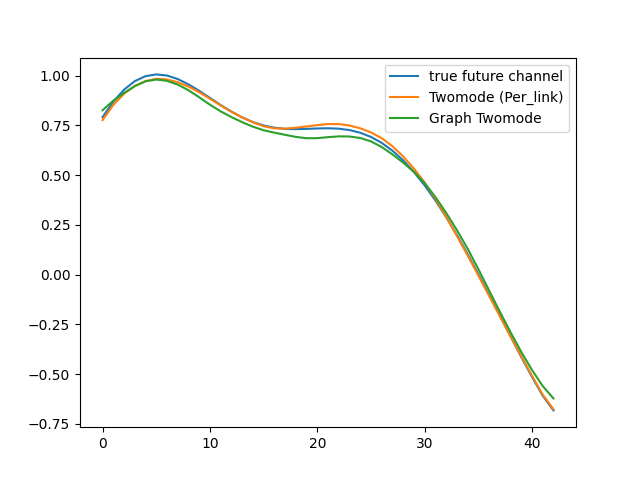
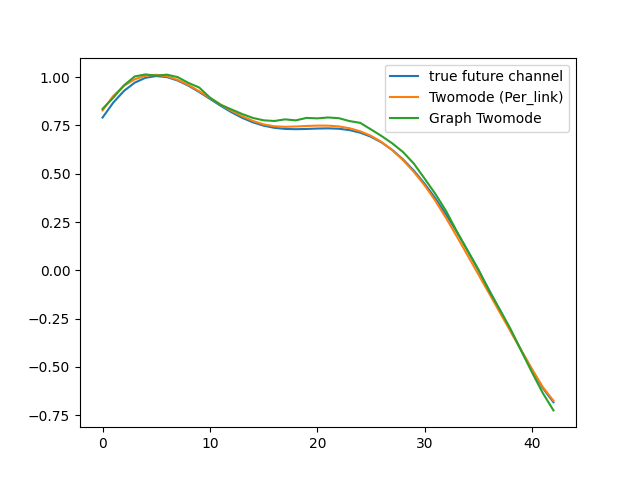
testing different adjacency initialization strategies

diff --git a/dmimo/channel/twomode_graph_wesn_pred_v2.py b/dmimo/channel/twomode_graph_wesn_pred_v2.py
@@ -7,7 +7,7 @@ from dmimo.channel import lmmse_channel_estimation
 
 class twomode_graph_wesn_pred_v2:
 
-    def __init__(self, rc_config, num_freq_re, num_rx_ant, num_tx_ant, type=np.complex64):
+    def __init__(self, rc_config, num_freq_re, num_rx_ant, num_tx_ant, adjacency_method=None, type=np.complex64):
         
         self.rc_config = rc_config
         self.ns3_config = Ns3Config()
@@ -25,6 +25,8 @@ class twomode_graph_wesn_pred_v2:
         self.reg = rc_config.regularization
         self.enable_window = rc_config.enable_window
         self.history_len = rc_config.history_len
+
+        self.adjacency_method = adjacency_method
 
         seed = 10
         self.RS = np.random.RandomState(seed)
@@ -48,6 +50,7 @@ class twomode_graph_wesn_pred_v2:
 
     def init_weights(self):
 
+        # TODO: try matching different vertex W_N's and W_ins to the different vertex input dimensions (Nr, Nt)
         matrices_left = []
         matrices_right = []
         for _ in range(self.N_v):
@@ -59,9 +62,6 @@ class twomode_graph_wesn_pred_v2:
         self.W_N_left = np.concatenate(matrices_left, axis=1)
         self.W_N_right = np.concatenate(matrices_right, axis=0)
         
-        self.W_res_left = self.sparse_mat(self.d_left)
-        self.W_res_right = self.sparse_mat(self.d_right)
-
         self.W_in_left = 2 * (self.RS.rand(self.d_left, self.N_in_left) - 0.5) # TODO: check if I should make this complex later
         self.W_in_right = 2 * (self.RS.rand(self.N_in_right, self.d_right) - 0.5) # TODO: check if I should make this complex later
 
@@ -111,7 +111,7 @@ class twomode_graph_wesn_pred_v2:
                 num_node_pairs = len(channel_train_gt_list)
 
                 # Optional: do NOT reset S_0 here if you want cross-RB continuity
-                self.S_0 = np.zeros([self.N_v, self.d_left, self.d_right], dtype=self.dtype)
+                # self.S_0 = np.zeros([self.N_v, self.d_left, self.d_right], dtype=self.dtype)
 
                 S_f_list, Y_f_list = self.build_S_Y(channel_train_input_list, channel_train_gt_list, meta_input, curr_window_weights=None)
                 S_list.append(S_f_list); Y_list.append(Y_f_list)
@@ -153,8 +153,10 @@ class twomode_graph_wesn_pred_v2:
                     channel_train_gt[..., freq_re, ofdm_sym]
                 )  # list length N_v; each (T, n_rx_v, n_tx_v)
 
+                self.adjacency = self.compute_eigenmode_adjacency_cov(channel_test_input_list)
+
                 # Optional: continuity across RBs (comment these two lines to carry state)
-                self.S_0 = np.zeros([self.N_v, self.d_left, self.d_right], dtype=self.dtype)
+                # self.S_0 = np.zeros([self.N_v, self.d_left, self.d_right], dtype=self.dtype)
 
                 # 2) Window & scale (same as training)
                 if self.enable_window:
@@ -267,7 +269,10 @@ class twomode_graph_wesn_pred_v2:
         Y_target_3D_list = channel_output
 
         # Compute adjacency matrices once per RE and per ofdm sym.
-        self.adjacency = self.compute_eigenmode_adjacency_cov(Y_3D_list)
+        if self.adjacency_method is None:
+            self.adjacency = self.compute_None_adjacency()
+        elif self.adjacency_method == 'eigenmode_cov':
+            self.adjacency = self.compute_eigenmode_adjacency_cov(Y_3D_list)
 
         if self.enable_window:
             Y_3D_win_list = self.form_window_input_signal_list(Y_3D_list, curr_window_weights)
@@ -491,7 +496,15 @@ class twomode_graph_wesn_pred_v2:
     # ------------------------------------------------------------------------------------
     # Adjacency calculation
     # ------------------------------------------------------------------------------------
-    def compute_eigenmode_adjacency_cov(
+    def compute_None_adjacency(self):
+
+        adj_None = np.zeros((self.N_v, self.N_v), dtype=float)
+        np.fill_diagonal(adj_None, 1.0)
+
+        return adj_None
+
+
+    def compute_eigenmode_adjacency_cov_v0(
         self,
         channel_input,      # list of arrays, each (B, R_sel, T_sel)
         subspace_rank_tx=2, # q_t
@@ -585,10 +598,169 @@ class twomode_graph_wesn_pred_v2:
         np.fill_diagonal(adj_rx, 1.0)
         adj_tx = 0.5 * (adj_tx + adj_tx.T)
         adj_rx = 0.5 * (adj_rx + adj_rx.T)
-
+        
         adj = (adj_rx + adj_tx) / 2
+
         return adj
 
+    def compute_eigenmode_adjacency_cov(
+        self,
+        channel_input,      # list of arrays, each (B, R_sel, T_sel)
+        subspace_rank_tx=2, # q_t
+        subspace_rank_rx=2, # q_r
+        shrinkage=0.0,
+        transpose_if_needed=False
+    ):
+        """
+        Covariance-based *joint* Tx/Rx subspace adjacency (Kronecker-space chordal affinity).
+
+        For each vertex v, estimate dominant Tx and Rx subspaces U_t[v] and U_r[v] from
+        time-averaged covariances R_tx, R_rx. The adjacency between vertices a,b is
+
+            A[a,b] = ( || U_r[a]^H U_r[b] ||_F^2 / q_r ) * ( || U_t[a]^H U_t[b] ||_F^2 / q_t )
+
+        which equals the normalized chordal affinity of the *joint* subspaces span(U_r ⊗ U_t)
+        without explicitly forming Kronecker products. Values are in [0,1], diagonal = 1,
+        and the result is symmetrized.
+
+        Args:
+            channel_input: list of length N_v; each item is array (B, R_sel, T_sel) of complex64
+                        mini-batches for that vertex/link.
+            subspace_rank_tx: q_t, target Tx subspace rank (capped by T_sel).
+            subspace_rank_rx: q_r, target Rx subspace rank (capped by R_sel).
+            shrinkage: scalar in [0,1]; if >0, apply diagonal shrinkage to covariances.
+            transpose_if_needed: if True and R_sel < T_sel, transpose per-batch matrices so
+                                that the "Rx" dimension is the larger one (keeps conventions).
+
+        Returns:
+            adj: (N_v, N_v) float64 numpy array with values in [0,1].
+        """
+        import numpy as np
+
+        N_v = len(channel_input)
+        Tx_bases, Rx_bases = [], []
+
+        def pad_rows(Q, N_target):
+            """Zero-pad rows of Q (n x q) to (N_target x q)."""
+            n, q = Q.shape
+            if n == N_target:
+                return Q
+            Qp = np.zeros((N_target, q), dtype=Q.dtype)
+            Qp[:n, :] = Q
+            return Qp
+
+        # --- Per-vertex subspace estimation ---
+        for v in range(N_v):
+            Yv = channel_input[v]
+            if Yv.ndim != 3:
+                raise ValueError("Each list element must be 3D (B, R_sel, T_sel)")
+            if transpose_if_needed and Yv.shape[1] < Yv.shape[2]:
+                Yv = np.transpose(Yv, (0, 2, 1))  # now (B, T_sel, R_sel); next lines adapt via shapes
+
+            B, dim1, dim2 = Yv.shape
+
+            # Interpret as (B, R_sel, T_sel) regardless of optional transpose
+            # If we transposed above, then dim1 is T_sel and dim2 is R_sel; swap back logically.
+            if transpose_if_needed and Yv.shape[1] > Yv.shape[2]:
+                R_sel, T_sel = dim2, dim1
+                # Build covariances by viewing Hb as (R_sel x T_sel) again:
+                R_tx = np.zeros((T_sel, T_sel), dtype=np.complex64)
+                R_rx = np.zeros((R_sel, R_sel), dtype=np.complex64)
+                for b in range(B):
+                    Hb = Yv[b].T  # (R_sel, T_sel)
+                    R_tx += Hb.conj().T @ Hb
+                    R_rx += Hb @ Hb.conj().T
+            else:
+                R_sel, T_sel = dim1, dim2
+                R_tx = np.zeros((T_sel, T_sel), dtype=np.complex64)
+                R_rx = np.zeros((R_sel, R_sel), dtype=np.complex64)
+                for b in range(B):
+                    Hb = Yv[b]  # (R_sel, T_sel)
+                    R_tx += Hb.conj().T @ Hb
+                    R_rx += Hb @ Hb.conj().T
+
+            R_tx /= max(B, 1)
+            R_rx /= max(B, 1)
+
+            if shrinkage > 0.0:
+                tr_tx = float(np.real(np.trace(R_tx))) / max(T_sel, 1)
+                tr_rx = float(np.real(np.trace(R_rx))) / max(R_sel, 1)
+                R_tx = (1.0 - shrinkage) * R_tx + shrinkage * tr_tx * np.eye(T_sel, dtype=R_tx.dtype)
+                R_rx = (1.0 - shrinkage) * R_rx + shrinkage * tr_rx * np.eye(R_sel, dtype=R_rx.dtype)
+
+            # Eigen-decomp (Hermitian), take top-q
+            eval_tx, evec_tx = np.linalg.eigh(R_tx)
+            eval_rx, evec_rx = np.linalg.eigh(R_rx)
+            idx_tx = np.argsort(eval_tx)[::-1]
+            idx_rx = np.argsort(eval_rx)[::-1]
+            q_t = max(0, min(subspace_rank_tx, T_sel))
+            q_r = max(0, min(subspace_rank_rx, R_sel))
+            Ut = evec_tx[:, idx_tx[:q_t]] if q_t > 0 else np.zeros((T_sel, 0), dtype=R_tx.dtype)
+            Ur = evec_rx[:, idx_rx[:q_r]] if q_r > 0 else np.zeros((R_sel, 0), dtype=R_rx.dtype)
+
+            # QR for numerical stability (keeps orthonormal columns)
+            if q_t > 0:
+                Ut, _ = np.linalg.qr(Ut)
+            if q_r > 0:
+                Ur, _ = np.linalg.qr(Ur)
+
+            Tx_bases.append(Ut)  # (T_sel x q_t)
+            Rx_bases.append(Ur)  # (R_sel x q_r)
+
+        # --- Joint subspace chordal affinity via product of Tx/Rx overlaps ---
+        def joint_affinity(Ur_a, Ut_a, Ur_b, Ut_b):
+            """
+            A_ab = (||Ur_a^H Ur_b||_F^2 / q_r) * (||Ut_a^H Ut_b||_F^2 / q_t),
+            with row-padding if needed.
+            """
+            # Handle empty subspaces
+            q_r_a = Ur_a.shape[1]
+            q_r_b = Ur_b.shape[1]
+            q_t_a = Ut_a.shape[1]
+            q_t_b = Ut_b.shape[1]
+            q_r = min(q_r_a, q_r_b)
+            q_t = min(q_t_a, q_t_b)
+            if q_r == 0 or q_t == 0:
+                return 0.0
+
+            # Pad rows if antenna counts differ
+            n_r = max(Ur_a.shape[0], Ur_b.shape[0])
+            n_t = max(Ut_a.shape[0], Ut_b.shape[0])
+            if Ur_a.shape[0] != n_r: Ur_a = pad_rows(Ur_a, n_r)
+            if Ur_b.shape[0] != n_r: Ur_b = pad_rows(Ur_b, n_r)
+            if Ut_a.shape[0] != n_t: Ut_a = pad_rows(Ut_a, n_t)
+            if Ut_b.shape[0] != n_t: Ut_b = pad_rows(Ut_b, n_t)
+
+            # Compute Frobenius norms of overlap matrices
+            Sr = Ur_a.conj().T @ Ur_b          # (q_r_a x q_r_b)
+            St = Ut_a.conj().T @ Ut_b          # (q_t_a x q_t_b)
+
+            # Use only the leading min-dim blocks to normalize by q_r, q_t fairly
+            Sr_eff = Sr[:q_r, :q_r]
+            St_eff = St[:q_t, :q_t]
+
+            num_r = np.linalg.norm(Sr_eff, 'fro')**2
+            num_t = np.linalg.norm(St_eff, 'fro')**2
+
+            # Normalize to [0,1] individually, then multiply (equivalent to Kronecker chordal)
+            ar = float(num_r / max(q_r, 1))
+            at = float(num_t / max(q_t, 1))
+            val = ar * at
+            # Numerical safety
+            if not np.isfinite(val):
+                val = 0.0
+            return float(np.clip(val, 0.0, 1.0))
+
+        adj = np.zeros((N_v, N_v), dtype=np.float64)
+        for a in range(N_v):
+            for b in range(N_v):
+                adj[a, b] = joint_affinity(Rx_bases[a], Tx_bases[a], Rx_bases[b], Tx_bases[b])
+
+        # Force symmetry and self-loops
+        adj = 0.5 * (adj + adj.T)
+        np.fill_diagonal(adj, 1.0)
+
+        return adj
 
     def complex_tanh(self, Y):
         return np.tanh(np.real(Y)) + 1j * np.tanh(np.imag(Y))

diff --git a/dmimo/dmimo_chanpred.py b/dmimo/dmimo_chanpred.py
@@ -338,7 +338,8 @@ class MU_MIMO(Model):
             graph_twomode_predictor = twomode_graph_wesn_pred_v2(rc_config=self.rc_config, 
                                                  num_freq_re=RB, 
                                                  num_rx_ant=RxAnt, 
-                                                 num_tx_ant=TxAnt
+                                                 num_tx_ant=TxAnt,
+                                                 adjacency_method='eigenmode_cov'
                                                 )
             h_freq_csi_graph_twomode = graph_twomode_predictor.predict(h_freq_csi_history)
             pred_nmse_graph_twomode_wesn = self.nmse(h_freq_csi_true[0,...], h_freq_csi_graph_twomode[0,...])
